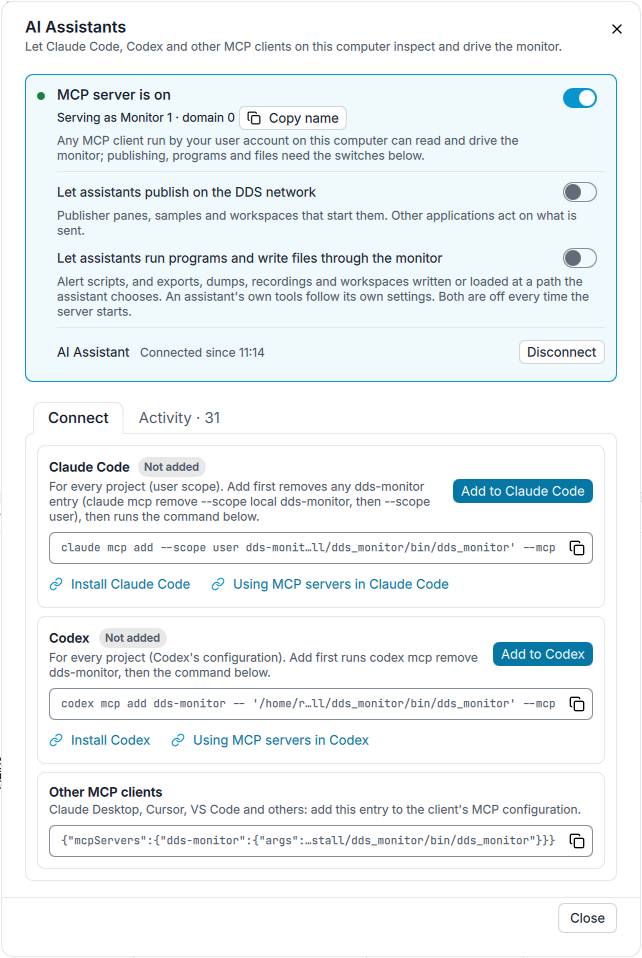
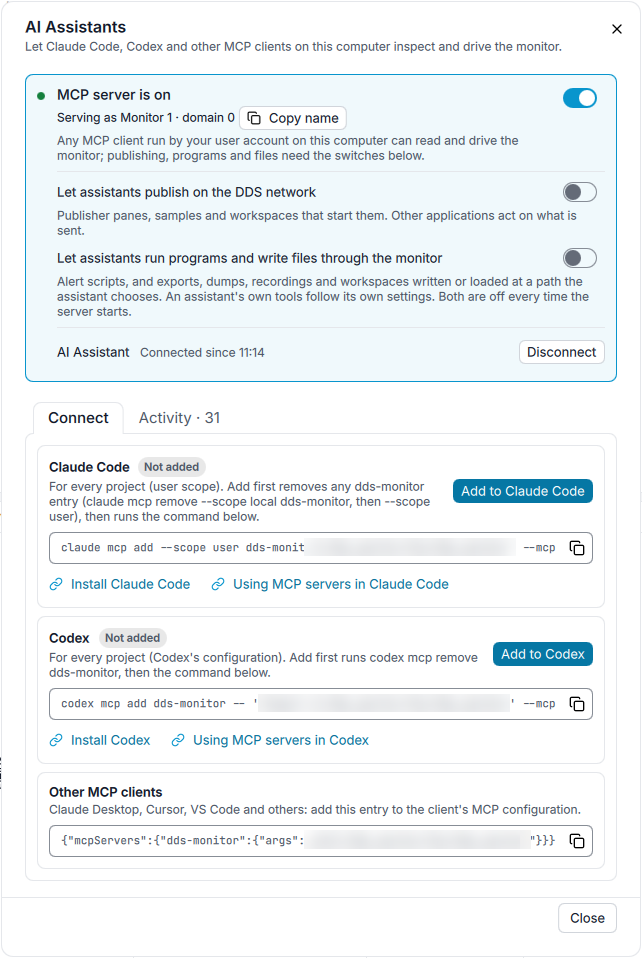
Remove implementation details on docs

diff --git a/docs/rst/user_manual/pro/ai_assistants.rst b/docs/rst/user_manual/pro/ai_assistants.rst
@@ -51,9 +51,9 @@ A connected assistant can:
 * Publish samples on the DDS network, and run programs or write files at a path it chooses, only after you
   allow it (see :ref:`pro_ai_permissions`).
 
-The assistant makes its changes in *plans* of up to 20 operations. The monitor checks the whole plan before any
-of it runs. Each operation goes through the same code as the matching menu, dialog or panel, so the result looks
-and behaves as if you had made it yourself, and it is saved with the workspace in the same way.
+The assistant makes its changes in *plans*: up to 20 changes in one request, which the monitor checks all
+together before it applies any of them. The result looks and behaves as if you had made the changes yourself,
+and it is saved with the workspace in the same way.
 
 .. _pro_ai_assistants_examples:
 
@@ -80,8 +80,8 @@ Example Requests
 The DDS Reference
 -----------------
 
-The monitor gives assistants its own reference material, and tells them to base their explanations and
-recommendations on it: it describes what Fast DDS does, defaults included. Each section says which Fast DDS
+The monitor gives assistants its own reference material for their explanations and recommendations: it
+describes what Fast DDS does, defaults included. Each section says which Fast DDS
 releases and editions it applies to, and names the Fast DDS Pro features that solve a problem. It covers:
 
 * How a DataWriter and a DataReader match (QoS compatibility).
@@ -224,8 +224,8 @@ How the Connection Works
 ------------------------
 
 The client starts ``dds_monitor --mcp`` itself whenever it needs the monitor; you do not run it. In this mode the
-monitor opens no window and starts no DDS participant. It only passes the client's requests, which arrive on its
-standard input and output (stdio), to the monitor window that has its server on.
+monitor opens no window and starts no DDS participant: it connects the client to the monitor window that has its
+server on.
 
 You can start the client before or after the monitor. Until a monitor window has its server on, the assistant is
 told to ask you to choose **AI → Enable MCP Server**.
@@ -380,9 +380,8 @@ which window to use.
 Privacy and Safety
 ==================
 
-* The server listens on a local endpoint (a socket on Linux, a named pipe on Windows) that only your user account
-  can open, so other computers and other user accounts cannot connect. The monitor itself does not connect to any
-  AI service.
+* Only MCP clients run by your user account on this computer can connect: the server opens no network port. The
+  monitor itself does not connect to any AI service.
 * Whatever an assistant reads through the server goes to the MCP client, which sends it to the AI model provider
   it uses, under that provider's terms. This can include host, user and process names, topic and type names, QoS,
   IDL, statistics, sample values, file paths and screenshots of the monitor window. Do not switch the server on
@@ -390,30 +389,27 @@ Privacy and Safety
 * The monitor does not ask before each client or call: switching the server on is your consent. While it is on,
   any MCP client started under your user account can connect, so switch it off when you are done.
 * Names and values that come from the DDS network, such as topic and type names, aliases and sample values, reach
-  the assistant as data, and the server tells the assistant never to follow instructions found in them. This
-  lowers the risk that text published on the network steers an assistant, but cannot rule it out. If it happens,
-  the permission switches limit what the assistant can do through the monitor.
+  the assistant as data, not as instructions. This lowers the risk that text published on the network steers an
+  assistant, but cannot rule it out. If it happens, the permission switches limit what the assistant can do
+  through the monitor.
 * The name shown for a client in the **AI Assistants** window and in the MCP chip is the name the client gives
   itself. The monitor does not check it.
-* So that clients can find it, a serving window writes a small record in your user account's runtime or temporary
-  folder. The record holds the window's name, the domain numbers it monitors and technical identifiers, with no
-  topic names, file paths or window title.
+* So that clients can find it, a serving window writes a small file in a folder of your user account. The file
+  holds the window's name and the domain numbers it monitors, but no topic names or file paths.
 
 .. _pro_ai_assistants_limitations:
 
 Known Limitations
 =================
 
-* The MCP server is part of the monitor by default. A monitor built from source with the CMake option
-  ``-DBUILD_MCP=OFF`` has no **AI** menu and no MCP server.
 * Clients must run on the same computer, under the same user account. At most 8 clients can be connected at a
   time; one more is refused with a message asking to close a session you no longer use.
 * When several topics share a name (one per type), the views an assistant opens on that name show the first one
   discovered, and the assistant is told which. It cannot open a view of the others.
 * An assistant cannot publish on a domain with a type that only another domain's applications carry. The monitor
   refuses the request and says why.
-* Chart panes are only redrawn while the monitor window is on screen. A screenshot of a minimized or covered
-  window can show old charts, so leave the window visible when an assistant checks its work on screen.
+* Leave the monitor window visible when an assistant checks its work on screen: a screenshot of a minimized or
+  covered window can show old charts.
 * While a recording is open, what the monitor disables for a recording is also refused to assistants, such as
   publishing, alerts and starting monitors. A recording holds no statistics.
 * Undo only closes tabs and panes, one change back (see :ref:`pro_ai_assistants_undo`).

diff --git a/docs/rst/user_manual/pro/workspace.rst b/docs/rst/user_manual/pro/workspace.rst
@@ -51,8 +51,8 @@ fresh and the rest of the workspace state is rebuilt on top of them.
 
     If a saved workspace references a DDS domain or Discovery Server that is not reachable at load time, that monitor opens in a waiting state and its panes populate as entities are discovered.
 
-The statistics backend is always reset on load.
-Entities are resolved by type and name instead of by entity IDs, which are volatile and change between
+Loading a workspace always clears the data the monitor has collected so far.
+Entities are found again by type and name instead of by entity ID, because entity IDs change between
 runs, so workspaces stay portable across runs.
 
 Loading a workspace stops a recording in progress, so the monitor asks first (see :ref:`pro_stop_recording`).
@@ -150,7 +150,7 @@ For each statistics chart pane:
 
 * The subscribed topic name and domain number.
 * Whether the pane was active (streaming) or paused when saved. On load, the pane reconnects by topic
-  name and domain, because the topic entity ID is volatile.
+  name and domain, because entity IDs change between runs.
 * Any :ref:`custom image topic mappings <image_pane_custom_topic>` defined in the session (the mode
   and the field-path or fixed-value mapping for each configured topic). Mappings are restored globally
   and re-validated against each topic's type when it is next used, so custom-mapped image panes reopen
@@ -190,8 +190,8 @@ For each topic chart pane:
 
 :ref:`Topic Publishers <publisher_pane>`
 
-* The target topic name and domain number. On load, the pane resolves the topic from this stable pair
-  instead of the volatile entity identifier.
+* The target topic name and domain number. On load, the pane finds the topic again from this pair,
+  because entity IDs change between runs.
 * The complete map of form values entered by the user, keyed by field path. Values are captured at
   save time, so unpublished edits are kept. The element count of every variable-length sequence and
   map, and the active branch of every union, are also saved, so the form reopens in the same shape.
@@ -207,7 +207,7 @@ For each topic chart pane:
 
 * The IDL contents and the type name it is registered under, so the pane reopens with the same
   definition on load.
-* Registered type definitions are also restored to the backend when the workspace is loaded, so
+* Registered type definitions are also registered again when the workspace is loaded, so
   types registered before saving stay available for spying, publishing, and charting during the
   session, even for topics that are not yet discovered.
 

diff --git a/docs/rst/user_manual/pro/register_type.rst b/docs/rst/user_manual/pro/register_type.rst
@@ -14,7 +14,7 @@ example, *Safe DDS* topics). Once a type is registered, it can be paired with an
 <topic_charts>`, on every monitored domain.
 
 Where the :ref:`Topic Type (IDL) <dockable_idl_pane>` pane only *displays* the IDL of an
-already-discovered topic, the Type Registration pane *supplies* a type definition to the backend.
+already-discovered topic, the Type Registration pane *supplies* a type definition to the monitor.
 
 .. thumbnail:: /rst/figures/screenshots/register_type_pro.png
     :align: center
@@ -82,7 +82,7 @@ Registration Results
 * On success the pane reports *Type '<name>' registered successfully.*
 * When the type completes a topic that had been discovered without type information, the pane reports
   that the previously incomplete type now has its definition.
-* Backend validation errors (for example, malformed IDL) are shown verbatim in red.
+* Validation errors (for example, malformed IDL) are shown verbatim in red.
 
 Registration is a global operation: the registered type becomes available on every monitored domain
 and can be paired with any topic name. Registered type definitions are preserved when you
@@ -93,8 +93,8 @@ and can be paired with any topic name. Registered type definitions are preserved
 Availability in Offline Mode
 ============================
 
-You can register types in :ref:`offline mode <offline_mode>`. Registration is a global backend
-action not tied to any live entity, so it also applies while inspecting a recording, and you can
+You can register types in :ref:`offline mode <offline_mode>`. Registration is a global action,
+not tied to any live entity, so it also applies while inspecting a recording, and you can
 resolve undiscovered types against recorded topics.
 
 .. _register_type_config:

diff --git a/docs/rst/user_manual/pro/recording.rst b/docs/rst/user_manual/pro/recording.rst
@@ -102,7 +102,7 @@ keep them for later recordings.
 fields says why:
 
 * The folder is empty, is not a full path, does not exist, is not a folder, or cannot be written to.
-  The check repeats every second while the message is shown, so creating the folder clears it.
+  The message clears as soon as the folder can be used, for example once you create it.
 * The file name contains ``/`` or ``\`` (on Windows also ``:``, ``*``, ``?``, ``"``, ``<``, ``>``
   or ``|``). The field takes at most 100 characters.
 
@@ -358,8 +358,6 @@ and the sample as ``data_json`` and ``data_cdr``, depending on the data format.
 The ``Topics`` and ``Types`` tables describe the topics and their types.
 ``sequence_number`` numbers the samples within the recording from 0, as DDS Recorder does: it is not
 the writer's sequence number, so a gap in it is no sign of a lost sample.
-The ``Types`` table also holds the types the recorded types depend on, in rows named
-``__dep__/<identifier>``.
 A SQLite file takes much more room than an MCAP file of the same data: it is not compressed, and
 **CDR and JSON** stores each sample twice.
 

diff --git a/docs/rst/user_manual/pro/offline_mode.rst b/docs/rst/user_manual/pro/offline_mode.rst
@@ -152,31 +152,6 @@ is not showing a recording.
 The recent workspaces (see :ref:`pro_recent_workspaces`) mark the workspaces saved from a recording with
 ``[Offline]``.
 
-.. _offline_mode_command_line:
-
-Opening a Recording from the Command Line
-=========================================
-
-You can start the monitor directly on a recording with these options:
-
-``--offline <file>``
-    Opens the ``.mcap`` or ``.db`` file in offline mode.
-
-``--offline-range <start>:<end>``
-    With ``--offline``: the range to load, as its start and end in nanoseconds since the Unix epoch.
-    The range dialog is not shown. A range that cannot be read is ignored, and the dialog asks instead.
-
-``--workspace <file>``
-    With ``--offline``: a workspace saved from that recording, applied once the recording has loaded.
-
-For example:
-
-.. code-block:: bash
-
-    dds_monitor --offline ~/recordings/2026-11-18_10-30-00_CET_recording_domain0.mcap
-
-The monitor uses these options itself to open a recording in a new window.
-
 .. _offline_mode_making_recordings:
 
 Making Recordings

diff --git a/docs/rst/user_manual/pro/data_table.rst b/docs/rst/user_manual/pro/data_table.rst
@@ -173,9 +173,8 @@ System Fields
 
 A field a sample does not have shows ``-``, for example ``logTime`` in a live table.
 
-The partitions are read once for each writer the monitor's reader matches.
-If a matched writer changes its partitions, the table shows the new ones only after that writer stops
-matching and matches again.
+If a writer changes its partitions, the table shows the new ones only after that writer stops matching
+the monitor and matches again.
 
 .. _pro_data_table_custom_series:
 
@@ -293,7 +292,7 @@ Click |radio| **Follow newest** to follow again.
 keep arriving.
 The samples that arrive meanwhile still go into the history, and the count line shows how many arrived.
 Click **Resume** to list the history again, in arrival order: a sort chosen while frozen is dropped.
-The frozen rows are kept apart from the history, so a frozen table can use up to twice its limits.
+A frozen table can use up to twice its limits.
 
 **Clear history** (or **Clear Table** in **ACTIONS**) removes every sample the table holds and closes the
 sample details.

diff --git a/docs/rst/user_manual/pro/right_pane_config.rst b/docs/rst/user_manual/pro/right_pane_config.rst
@@ -101,7 +101,7 @@ See :ref:`image_pane` for the full image pane documentation.
 
 The configuration panel for an image pane covers:
 
-* A read-only **TOPIC** section showing the current topic name and domain.
+* A read-only **TOPIC** section showing the current topic name and monitor.
 * A **CHANGE TOPIC** section listing only image-compatible topics, with an **Apply & Reset** button.
 * A **CUSTOM IMAGE TOPICS** section to map a non-standard topic as an image (see
   :ref:`image_pane_custom_topic`).
@@ -236,7 +236,7 @@ See :ref:`dockable_idl_pane` for the full IDL pane documentation.
 
 The configuration panel for an IDL pane covers:
 
-* A read-only **TOPIC** section showing the current topic name, domain, and resolved type name.
+* A read-only **TOPIC** section showing the current topic name, monitor, and resolved type name.
 * A **CHANGE TOPIC** section with monitor and topic selection and an **Apply & Reset** button.
 * A **DISPLAY** toggle for ROS 2 demangling.
 * Actions with replace-split submenus and copying option.

diff --git a/docs/rst/user_manual/pro/custom_series_panel.rst b/docs/rst/user_manual/pro/custom_series_panel.rst
@@ -108,13 +108,13 @@ For example, with ``state`` bound to ``RobotStatus.state.name`` and ``battery`` 
 The series fails, and stops computing new values until you save a fix, when its formula throws an
 exception, takes more than 100 ms in one call, or returns another kind of value (an object or an array).
 
-Formulas run in *Qt*'s built-in JavaScript engine (``QJSEngine``) and support standard ECMAScript. All
+Formulas are written in standard ECMAScript (JavaScript). All
 standard built-ins are available, including ``Math``, ``JSON``, ``Number``, ``String``, ``Array``,
 ``Object``, ``Date``, ``RegExp``, ``parseInt``, ``parseFloat``, ``isNaN``, and ``isFinite``.
 
 For safety, the following identifiers are **not** available inside a formula:
 ``console``, ``window``, ``document``, ``XMLHttpRequest``, ``fetch``, ``setTimeout``,
-``clearTimeout``, ``setInterval``, ``clearInterval``, and ``qt``.
+``clearTimeout``, ``setInterval``, and ``clearInterval``.
 
 .. _custom_series_saving:
 

diff --git a/docs/rst/user_manual/pro/initialize_monitoring.rst b/docs/rst/user_manual/pro/initialize_monitoring.rst
@@ -110,8 +110,8 @@ The theme is applied across all components:
 
 - **Panels and sidebars** - backgrounds, text, row hover states, scrollbars, and dividers.
 - **Charts** - backgrounds, axis labels, grid lines, and legend text.
-  Chart series colors are a fixed ten-color palette that is the same in both themes.
-- :ref:`Domain graph <pro_domain_graph>` - node and edge colors adapt; entity status colors (green/yellow/red) are fixed.
+  Chart series colors come from a fixed palette that is the same in both themes.
+- :ref:`Domain View <pro_domain_graph>` - node and edge colors adapt, and so do the entity status icons.
 - **Dialogs** - all dialogs, wizards, and alert/alias forms use the active palette.
 - **Controls** - buttons, inputs, toggles, sliders, and scroll bars are consistently themed.
 - **Icons** - automatically switch between dark and light stroke variants.

diff --git a/docs/rst/user_manual/pro/publisher_pane.rst b/docs/rst/user_manual/pro/publisher_pane.rst
@@ -252,8 +252,8 @@ Workspace Save and Restore
 The Topic Publisher takes part in :ref:`workspace`. For each Topic Publisher, the workspace saves the
 following and restores it on load:
 
-* The subscribed topic name and domain number. The pane re-resolves the topic from this stable pair
-  rather than from a volatile entity identifier, so a workspace can be reopened across runs of the
+* The subscribed topic name and domain number. The pane finds the topic again from this pair rather
+  than from its entity ID, which changes between runs, so a workspace can be reopened across runs of the
   monitored application without losing the binding.
 * The complete map of form values entered by the user, keyed by field path. The current edits are
   snapshotted at save time, so values typed into the form survive even if no sample has been published

diff --git a/docs/rst/user_manual/pro/explorer_panel.rst b/docs/rst/user_manual/pro/explorer_panel.rst
@@ -17,7 +17,7 @@ The panel contains a variable number of sub-panels: the :ref:`pro_dds_panel_layo
 Each sub-panel groups entities by category.
 Use the ``...`` button in the upper bar of the panel to show or hide individual sub-panels.
 The |refresh| button in the same bar resets the currently selected entity and rebuilds the entity
-models from the current database state; use it if entities appear to be missing or the display
+lists from the data the monitor holds; use it if entities appear to be missing or the display
 seems out of sync (see also :ref:`pro_refresh_button`).
 Drag the panel border to resize it.
 To hide the entire left sidebar, use |panel_left_close| **Hide Sidebar** at the bottom of the icon bar.

diff --git a/docs/rst/user_manual/pro/application_menu.rst b/docs/rst/user_manual/pro/application_menu.rst
@@ -185,8 +185,8 @@ display.
 .. _pro_refresh_button:
 
 **Refresh**
-    Resets the currently selected entity and rebuilds the entity models from the current database
-    state. Also available with the **Ctrl+R** keyboard shortcut.
+    Resets the currently selected entity and rebuilds the entity lists from the data the monitor
+    holds. Also available with the **Ctrl+R** keyboard shortcut.
     Use it if entities seem to be missing from the Explorer Panel or the display looks out of sync.
 
 .. _pro_clear_log:
